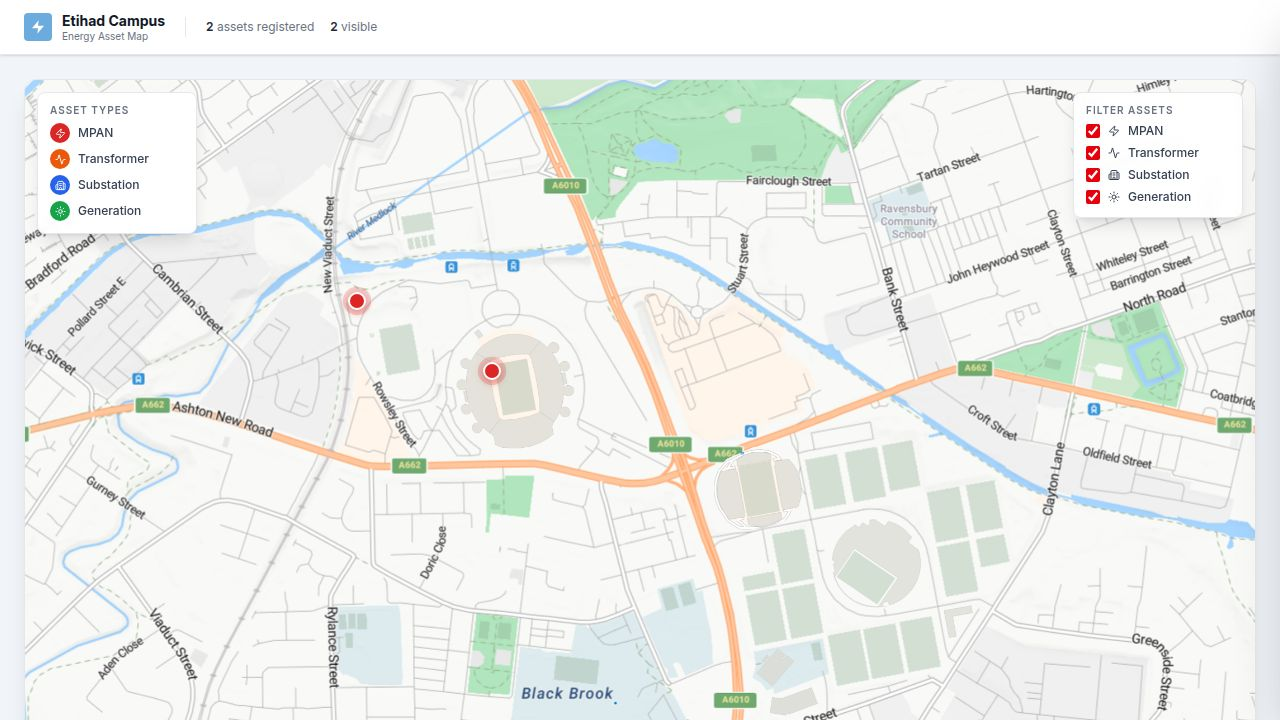
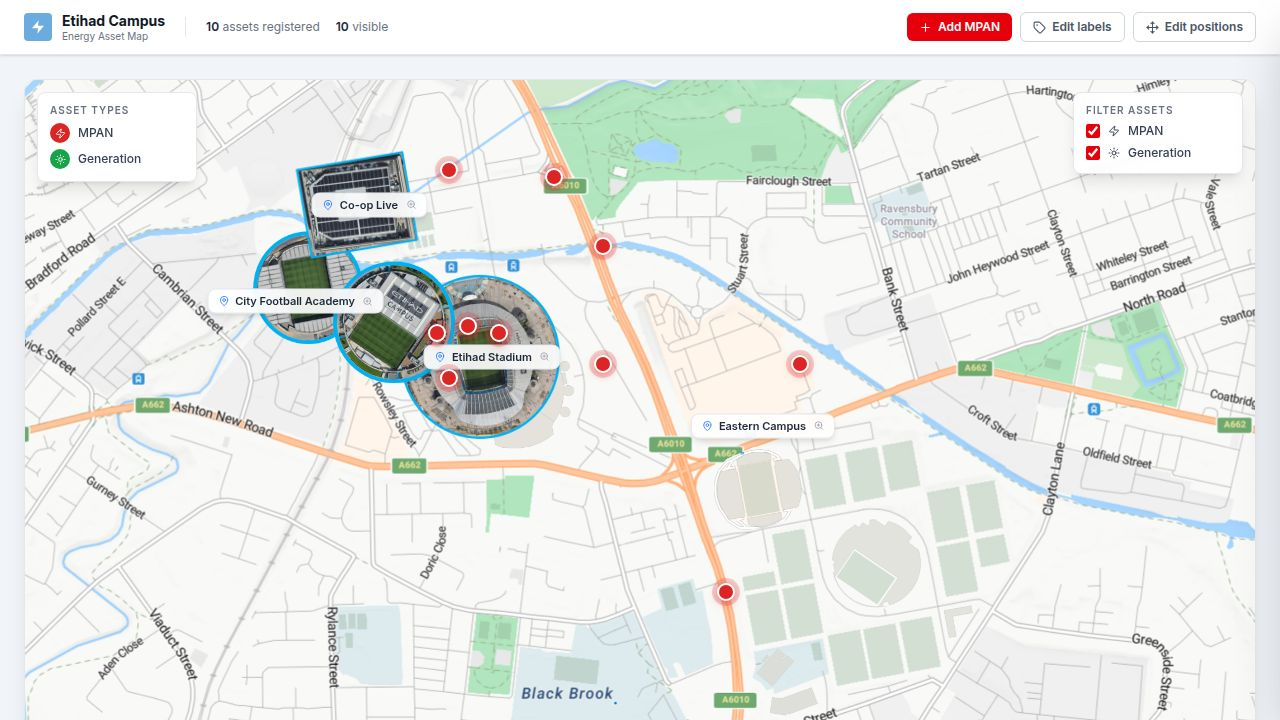
Allow users to edit map labels and their positions
Introduce new state management for site labels, enable editing functionality through a dedicated button, and implement drag-and-drop for repositioning and inline text editing for renaming labels in `EnergyMap.tsx` and `SiteLabel.tsx`.

Replit-Commit-Author: Agent
Replit-Commit-Session-Id: a87f46d6-8d1a-4bca-9142-fc87ed31df33
Replit-Commit-Checkpoint-Type: full_checkpoint
Replit-Commit-Event-Id: c9a101d8-18fe-4d43-84fe-7f71b94892f1
Replit-Commit-Screenshot-Url: https://storage.googleapis.com/screenshot-production-us-central1/f9b025c0-effb-4256-9f8c-56910c65f124/a87f46d6-8d1a-4bca-9142-fc87ed31df33/XHvpIdY
Replit-Helium-Checkpoint-Created: true

diff --git a/artifacts/energy-map/src/components/SiteLabel.tsx b/artifacts/energy-map/src/components/SiteLabel.tsx
@@ -1,13 +1,81 @@
-import { MapPin, ZoomIn, ZoomOut } from 'lucide-react';
+import { useRef, useState, useEffect } from 'react';
+import { MapPin, ZoomIn, ZoomOut, GripHorizontal, Pencil, Check } from 'lucide-react';
 import { Site } from '@/data/sites';
 
 interface SiteLabelProps {
   site: Site;
+  mapRef: React.RefObject<HTMLDivElement | null>;
   onClick: (site: Site) => void;
+  onUpdate: (id: string, updates: Partial<{ name: string; x: number; y: number }>) => void;
   active?: boolean;
+  labelEditMode?: boolean;
 }
 
-export function SiteLabel({ site, onClick, active = false }: SiteLabelProps) {
+export function SiteLabel({ site, mapRef, onClick, onUpdate, active = false, labelEditMode = false }: SiteLabelProps) {
+  const [editing, setEditing] = useState(false);
+  const [draftName, setDraftName] = useState(site.name);
+  const inputRef = useRef<HTMLInputElement>(null);
+  const dragState = useRef<{ startMouseX: number; startMouseY: number; startX: number; startY: number; moved: boolean } | null>(null);
+
+  // keep draft in sync when site.name changes externally
+  useEffect(() => { setDraftName(site.name); }, [site.name]);
+
+  useEffect(() => {
+    if (editing) inputRef.current?.focus();
+  }, [editing]);
+
+  function handleGripMouseDown(e: React.MouseEvent) {
+    e.preventDefault();
+    e.stopPropagation();
+    dragState.current = {
+      startMouseX: e.clientX,
+      startMouseY: e.clientY,
+      startX: site.x,
+      startY: site.y,
+      moved: false,
+    };
+  }
+
+  useEffect(() => {
+    if (!labelEditMode) return;
+
+    function onMouseMove(e: MouseEvent) {
+      if (!dragState.current || !mapRef.current) return;
+      const state = dragState.current;
+      const dx = e.clientX - state.startMouseX;
+      const dy = e.clientY - state.startMouseY;
+      if (!state.moved && Math.sqrt(dx * dx + dy * dy) < 4) return;
+      state.moved = true;
+      const rect = mapRef.current.getBoundingClientRect();
+      const x = Math.max(0, Math.min(100, state.startX + (dx / rect.width) * 100));
+      const y = Math.max(0, Math.min(100, state.startY + (dy / rect.height) * 100));
+      onUpdate(site.id, { x, y });
+    }
+
+    function onMouseUp() {
+      dragState.current = null;
+    }
+
+    window.addEventListener('mousemove', onMouseMove);
+    window.addEventListener('mouseup', onMouseUp);
+    return () => {
+      window.removeEventListener('mousemove', onMouseMove);
+      window.removeEventListener('mouseup', onMouseUp);
+    };
+  }, [labelEditMode, site.id, site.x, site.y, mapRef, onUpdate]);
+
+  function commitName() {
+    const trimmed = draftName.trim();
+    if (trimmed && trimmed !== site.name) onUpdate(site.id, { name: trimmed });
+    else setDraftName(site.name);
+    setEditing(false);
+  }
+
+  function handleKeyDown(e: React.KeyboardEvent) {
+    if (e.key === 'Enter') commitName();
+    if (e.key === 'Escape') { setDraftName(site.name); setEditing(false); }
+  }
+
   return (
     <div
       data-testid={`site-label-${site.id}`}
@@ -17,26 +85,68 @@ export function SiteLabel({ site, onClick, active = false }: SiteLabelProps) {
         top: `${site.y}%`,
         transform: 'translate(-50%, -50%)',
         zIndex: 15,
+        userSelect: 'none',
       }}
     >
-      <button
-        onClick={() => onClick(site)}
-        className={`group flex items-center gap-1.5 backdrop-blur-sm border rounded-lg px-2.5 py-1.5 shadow-md transition-all duration-150 cursor-pointer whitespace-nowrap ${
-          active
-            ? 'bg-blue-600 border-blue-700 text-white shadow-lg shadow-blue-200'
-            : 'bg-white/90 border-gray-200 hover:bg-white hover:border-blue-300 hover:shadow-lg'
-        }`}
-        aria-label={active ? `Zoom out from ${site.name}` : `Zoom to ${site.name}`}
-      >
-        <MapPin size={11} className={active ? 'text-blue-200 shrink-0' : 'text-blue-500 shrink-0'} />
-        <span className={`text-[11px] font-semibold leading-none ${active ? 'text-white' : 'text-gray-800'}`}>
-          {site.name}
-        </span>
-        {active
-          ? <ZoomOut size={10} className="text-blue-200 shrink-0 ml-0.5" />
-          : <ZoomIn size={10} className="text-gray-400 group-hover:text-blue-500 transition-colors shrink-0 ml-0.5" />
-        }
-      </button>
+      {labelEditMode ? (
+        /* ── Edit mode pill ── */
+        <div className="flex items-center gap-0.5 bg-white border-2 border-indigo-400 rounded-lg shadow-lg px-1.5 py-1">
+          {/* Grip / drag handle */}
+          <div
+            className="cursor-grab active:cursor-grabbing p-0.5 text-indigo-400 hover:text-indigo-600"
+            onMouseDown={handleGripMouseDown}
+            title="Drag to move"
+          >
+            <GripHorizontal size={12} />
+          </div>
+
+          <MapPin size={11} className="text-indigo-500 shrink-0" />
+
+          {editing ? (
+            <input
+              ref={inputRef}
+              value={draftName}
+              onChange={(e) => setDraftName(e.target.value)}
+              onBlur={commitName}
+              onKeyDown={handleKeyDown}
+              className="text-[11px] font-semibold text-gray-900 bg-transparent border-b border-indigo-400 outline-none w-32 leading-none"
+            />
+          ) : (
+            <span className="text-[11px] font-semibold text-gray-800 mx-0.5 leading-none whitespace-nowrap">
+              {site.name}
+            </span>
+          )}
+
+          {/* Pencil / confirm toggle */}
+          <button
+            className="p-0.5 text-indigo-400 hover:text-indigo-600 transition-colors"
+            onClick={(e) => { e.stopPropagation(); editing ? commitName() : setEditing(true); }}
+            title={editing ? 'Confirm name' : 'Edit name'}
+          >
+            {editing ? <Check size={11} /> : <Pencil size={11} />}
+          </button>
+        </div>
+      ) : (
+        /* ── Normal mode pill ── */
+        <button
+          onClick={() => onClick(site)}
+          className={`group flex items-center gap-1.5 backdrop-blur-sm border rounded-lg px-2.5 py-1.5 shadow-md transition-all duration-150 cursor-pointer whitespace-nowrap ${
+            active
+              ? 'bg-blue-600 border-blue-700 text-white shadow-lg shadow-blue-200'
+              : 'bg-white/90 border-gray-200 hover:bg-white hover:border-blue-300 hover:shadow-lg'
+          }`}
+          aria-label={active ? `Zoom out from ${site.name}` : `Zoom to ${site.name}`}
+        >
+          <MapPin size={11} className={active ? 'text-blue-200 shrink-0' : 'text-blue-500 shrink-0'} />
+          <span className={`text-[11px] font-semibold leading-none ${active ? 'text-white' : 'text-gray-800'}`}>
+            {site.name}
+          </span>
+          {active
+            ? <ZoomOut size={10} className="text-blue-200 shrink-0 ml-0.5" />
+            : <ZoomIn size={10} className="text-gray-400 group-hover:text-blue-500 transition-colors shrink-0 ml-0.5" />
+          }
+        </button>
+      )}
     </div>
   );
 }

diff --git a/artifacts/energy-map/src/components/EnergyMap.tsx b/artifacts/energy-map/src/components/EnergyMap.tsx
@@ -1,7 +1,7 @@
 import { useState, useCallback, useRef, useEffect } from 'react';
-import { Move, Lock, Unlock, Copy, Check, ZoomOut, Plus } from 'lucide-react';
+import { Move, Lock, Unlock, Copy, Check, ZoomOut, Plus, Tag } from 'lucide-react';
 import { assets as configAssets, EnergyAsset, AssetType } from '@/data/assets';
-import { sites, Site } from '@/data/sites';
+import { sites as configSites, Site } from '@/data/sites';
 import { stickers as configStickers } from '@/data/stickers';
 import { MarkerTooltip } from './MarkerTooltip';
 import { SidePanel } from './SidePanel';
@@ -48,6 +48,24 @@ function initStickerTransforms(): Record<string, StickerTransform> {
   return result;
 }
 
+const SITE_OVERRIDES_KEY = 'energy-map-site-overrides';
+
+function loadSiteOverrides(): Record<string, Partial<Site>> {
+  try {
+    const raw = localStorage.getItem(SITE_OVERRIDES_KEY);
+    return raw ? JSON.parse(raw) : {};
+  } catch { return {}; }
+}
+
+function saveSiteOverrides(overrides: Record<string, Partial<Site>>) {
+  localStorage.setItem(SITE_OVERRIDES_KEY, JSON.stringify(overrides));
+}
+
+function initSites(): Site[] {
+  const overrides = loadSiteOverrides();
+  return configSites.map((s) => ({ ...s, ...overrides[s.id] }));
+}
+
 function loadPositions(): Record<string, { x: number; y: number }> {
   try {
     const raw = localStorage.getItem(STORAGE_KEY);
@@ -68,6 +86,8 @@ function mergePositions(base: EnergyAsset[]): EnergyAsset[] {
 
 export function EnergyMap() {
   const [assets, setAssets] = useState<EnergyAsset[]>(() => [...mergePositions(configAssets), ...loadUserAssets()]);
+  const [siteState, setSiteState] = useState<Site[]>(() => initSites());
+  const [labelEditMode, setLabelEditMode] = useState(false);
   const [addMpanMode, setAddMpanMode] = useState(false);
   const [pendingMpan, setPendingMpan] = useState<{ x: number; y: number } | null>(null);
   const [hoveredId, setHoveredId] = useState<string | null>(null);
@@ -114,6 +134,24 @@ export function EnergyMap() {
 
   const handleDeselectSticker = useCallback(() => {
     setSelectedStickerId(null);
+  }, []);
+
+  const handleSiteLabelUpdate = useCallback((id: string, updates: Partial<Site>) => {
+    setSiteState((prev) => {
+      const next = prev.map((s) => s.id === id ? { ...s, ...updates } : s);
+      // persist overrides as a map
+      const overrides: Record<string, Partial<Site>> = {};
+      next.forEach((s, i) => {
+        const orig = configSites[i];
+        const diff: Partial<Site> = {};
+        if (s.name !== orig.name) diff.name = s.name;
+        if (Math.abs(s.x - orig.x) > 0.01) diff.x = s.x;
+        if (Math.abs(s.y - orig.y) > 0.01) diff.y = s.y;
+        if (Object.keys(diff).length) overrides[s.id] = diff;
+      });
+      saveSiteOverrides(overrides);
+      return next;
+    });
   }, []);
 
   const handleAddMpanConfirm = useCallback((name: string, mpan: string, notes: string) => {
@@ -203,12 +241,26 @@ export function EnergyMap() {
     setZoomedSite(null);
     setAddMpanMode(false);
     setPendingMpan(null);
+    setLabelEditMode(false);
   };
 
   const handleEnterAddMpan = () => {
     setAddMpanMode(true);
     setEditMode(false);
     setLocked(false);
+    setSelectedAsset(null);
+    setHoveredId(null);
+    setZoomedSite(null);
+    setSelectedStickerId(null);
+    setLabelEditMode(false);
+  };
+
+  const handleEnterLabelEdit = () => {
+    setLabelEditMode(true);
+    setEditMode(false);
+    setLocked(false);
+    setAddMpanMode(false);
+    setPendingMpan(null);
     setSelectedAsset(null);
     setHoveredId(null);
     setZoomedSite(null);
@@ -268,7 +320,7 @@ export function EnergyMap() {
         </div>
 
         <div className="ml-auto flex items-center gap-2">
-          {!editMode && !addMpanMode && (
+          {!editMode && !addMpanMode && !labelEditMode && (
             <button
               data-testid="btn-add-mpan"
               onClick={handleEnterAddMpan}
@@ -276,6 +328,25 @@ export function EnergyMap() {
             >
               <Plus size={13} />
               Add MPAN
+            </button>
+          )}
+          {!editMode && !addMpanMode && !labelEditMode && (
+            <button
+              data-testid="btn-edit-labels"
+              onClick={handleEnterLabelEdit}
+              className="flex items-center gap-1.5 px-3 py-1.5 rounded-md text-xs font-semibold border border-gray-300 text-gray-600 hover:bg-gray-50 hover:border-gray-400 transition-colors"
+            >
+              <Tag size={13} />
+              Edit labels
+            </button>
+          )}
+          {labelEditMode && (
+            <button
+              onClick={() => setLabelEditMode(false)}
+              className="flex items-center gap-1.5 px-3 py-1.5 rounded-md text-xs font-semibold bg-indigo-600 text-white hover:bg-indigo-700 transition-colors"
+            >
+              <Check size={13} />
+              Done editing labels
             </button>
           )}
           {addMpanMode && (
@@ -417,13 +488,16 @@ export function EnergyMap() {
               );
             })}
 
-            {/* Site labels — hidden in edit mode */}
-            {!editMode && sites.map((site) => (
+            {/* Site labels — hidden in marker-edit mode */}
+            {!editMode && siteState.map((site) => (
               <SiteLabel
                 key={site.id}
                 site={site}
+                mapRef={mapRef}
                 onClick={handleSiteClick}
+                onUpdate={handleSiteLabelUpdate}
                 active={zoomedSite?.id === site.id}
+                labelEditMode={labelEditMode}
               />
             ))}
 
